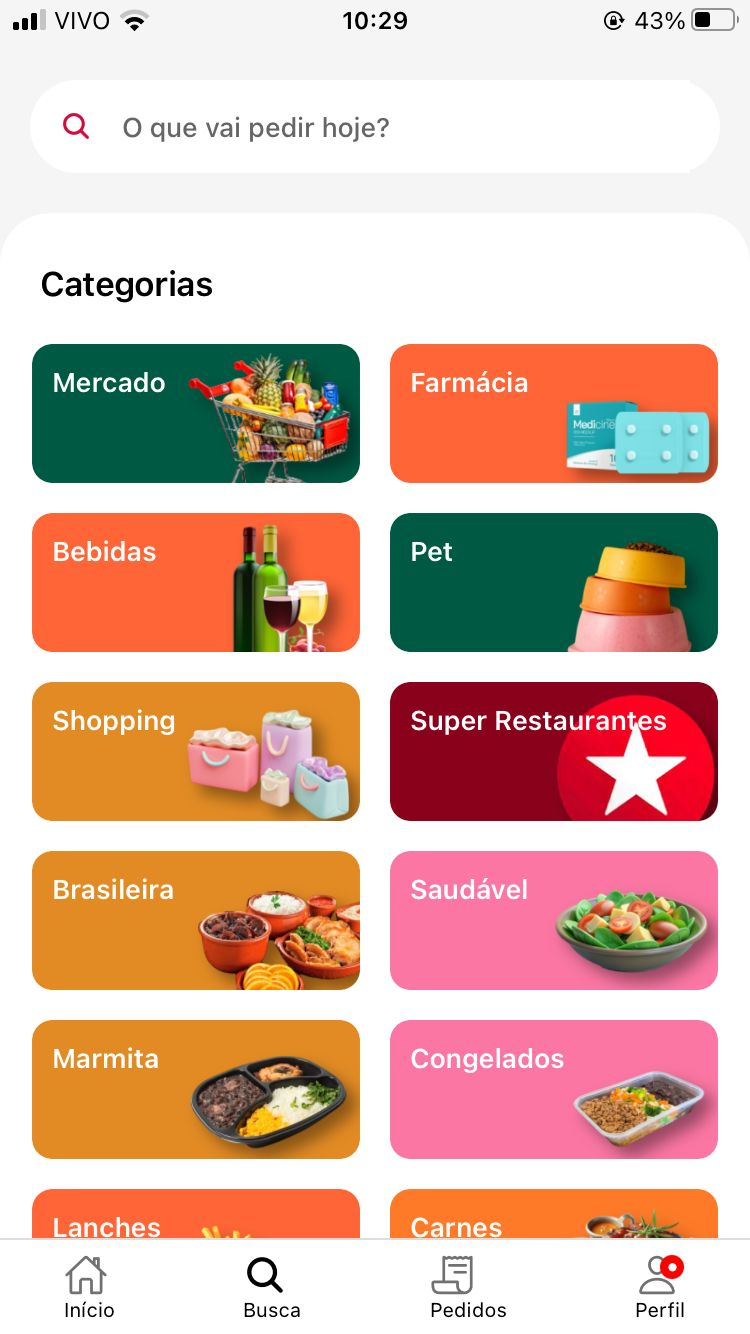
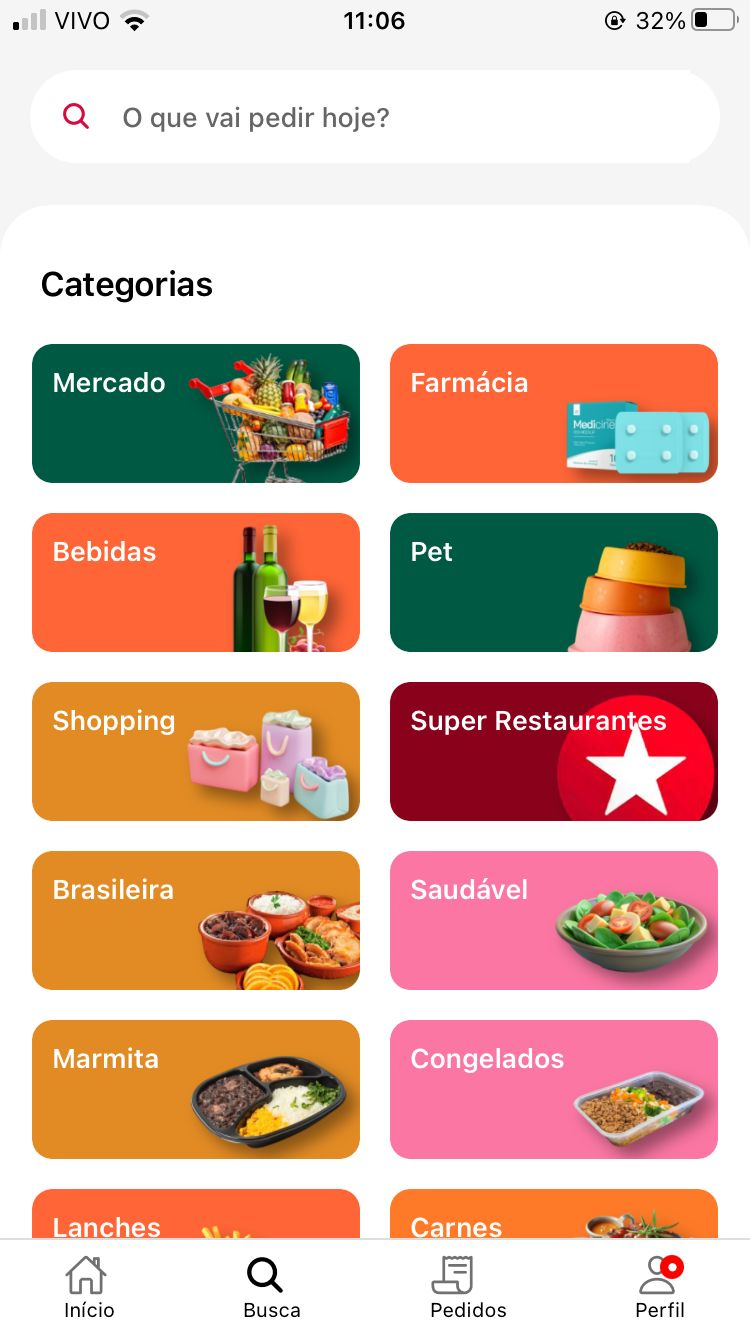
Ajustes nas medidas da tela 2

diff --git a/src/screens/Busca/styles.ts b/src/screens/Busca/styles.ts
@@ -12,7 +12,7 @@ export const styles = StyleSheet.create({
         alignItems: "center",
         backgroundColor: "#fff",
         borderRadius: 30,
-        marginTop: 40,
+        marginTop: 35,
         marginHorizontal: 15,
         paddingHorizontal: 15,
     },
@@ -26,7 +26,7 @@ export const styles = StyleSheet.create({
     },
     categorias: {
         backgroundColor: "#ffffff",
-        marginTop: 20,
+        marginTop: 21,
         borderTopRightRadius: 25,
         borderTopLeftRadius: 25,
 
@@ -40,7 +40,7 @@ export const styles = StyleSheet.create({
     },
 
     titulo: {
-        marginTop: 25,
+        marginTop: 29,
         fontWeight: 600,
         fontSize: 17,
         marginLeft: 20

diff --git a/App.tsx b/App.tsx
@@ -5,8 +5,8 @@ import { Busca } from "./src/screens/Busca";
 
 export default function App() {
   return (
-   <Inicio />
-  //  <Busca/>
+   //<Inicio />
+   <Busca/>
 
   )
 }
